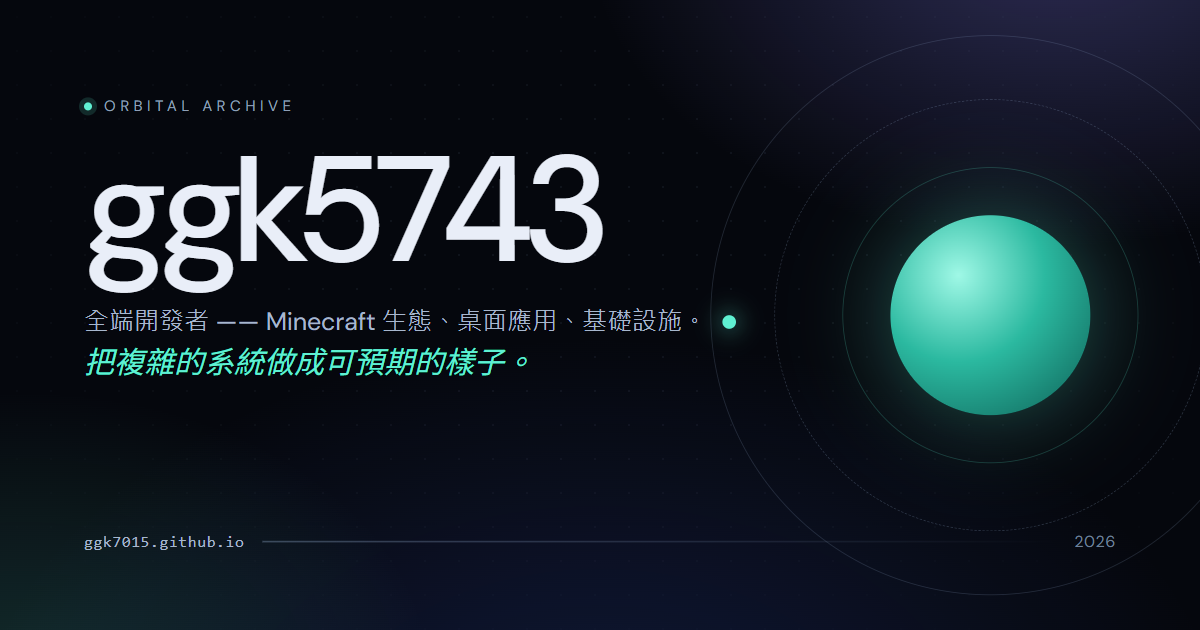
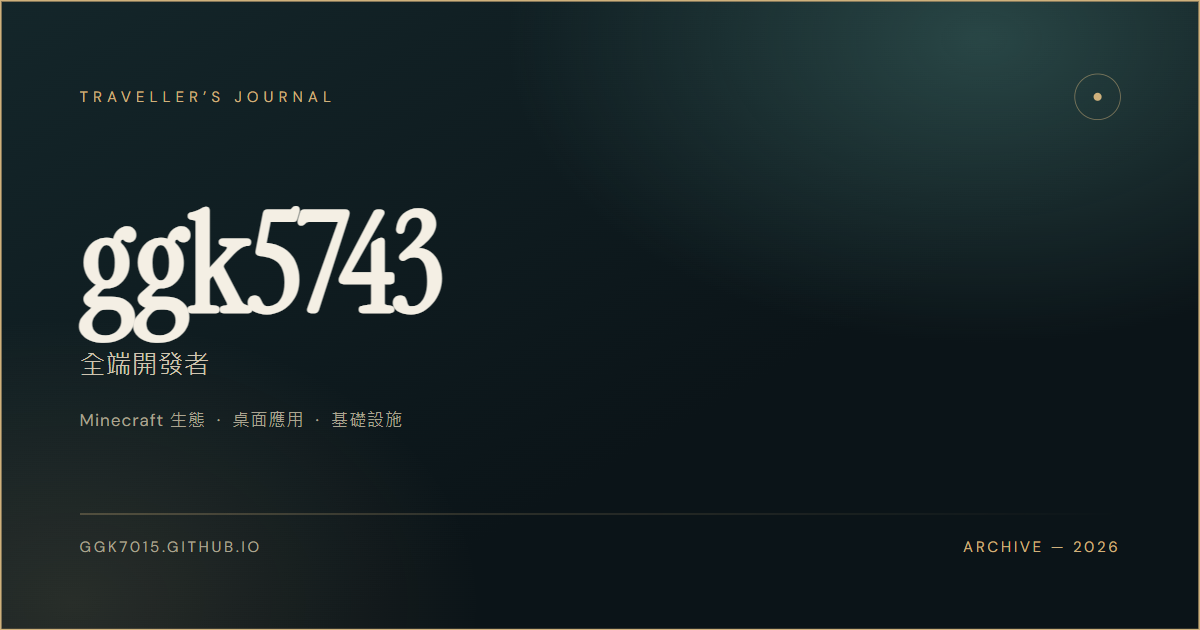
style: dial the Rhea frames back to a single focus panel
Keep the teal-and-gold palette from DRE2N/Rhea but let the cards stay flat translucent panels with a gold hairline; only the contact panel keeps the 2px frame and the stone gradient. Refresh the social card in the same palette.

diff --git a/src/index.css b/src/index.css
@@ -848,14 +848,13 @@ pre {
   display: flex;
   flex-direction: column;
   padding: clamp(22px, 3vw, 32px);
-  border: 1px solid var(--line-strong);
+  border: 1px solid var(--line);
   border-radius: var(--r-md);
-  background: var(--panel-grad);
+  background: var(--panel);
   overflow: hidden;
   box-shadow:
-    inset 0 1px 0 rgb(255 255 255 / 8%),
-    inset 0 0 0 1px rgb(0 0 0 / 22%),
-    0 34px 64px -48px rgb(0 0 0 / 88%);
+    inset 0 1px 0 rgb(255 255 255 / 6%),
+    0 26px 50px -44px rgb(0 0 0 / 80%);
   transition:
     transform 0.4s var(--ease-out),
     border-color 0.4s var(--ease),
@@ -1105,10 +1104,10 @@ pre {
 
 .skill {
   padding: 22px;
-  border: 1px solid var(--line-strong);
+  border: 1px solid var(--line);
   border-radius: var(--r-md);
-  background: var(--panel-grad);
-  box-shadow: inset 0 1px 0 rgb(255 255 255 / 7%);
+  background: var(--panel);
+  box-shadow: inset 0 1px 0 rgb(255 255 255 / 5%);
   transition:
     border-color 0.35s var(--ease),
     background-color 0.35s var(--ease),
@@ -1157,9 +1156,9 @@ pre {
   padding: clamp(26px, 4vw, 46px);
   border: 1px solid var(--line-strong);
   border-radius: var(--r-lg);
-  background: var(--panel-grad);
+  background: var(--panel);
   overflow: hidden;
-  box-shadow: inset 0 1px 0 rgb(255 255 255 / 7%);
+  box-shadow: inset 0 1px 0 rgb(255 255 255 / 5%);
 }
 
 .signal::before {
@@ -1262,8 +1261,8 @@ pre {
   border-radius: var(--r-md);
   background: var(--panel-grad);
   box-shadow:
-    inset 0 0 0 1px rgb(0 0 0 / 30%),
-    0 40px 80px -60px rgb(0 0 0 / 100%);
+    inset 0 0 0 1px rgb(0 0 0 / 26%),
+    0 34px 70px -56px rgb(0 0 0 / 90%);
 }
 
 .signal__hint {
